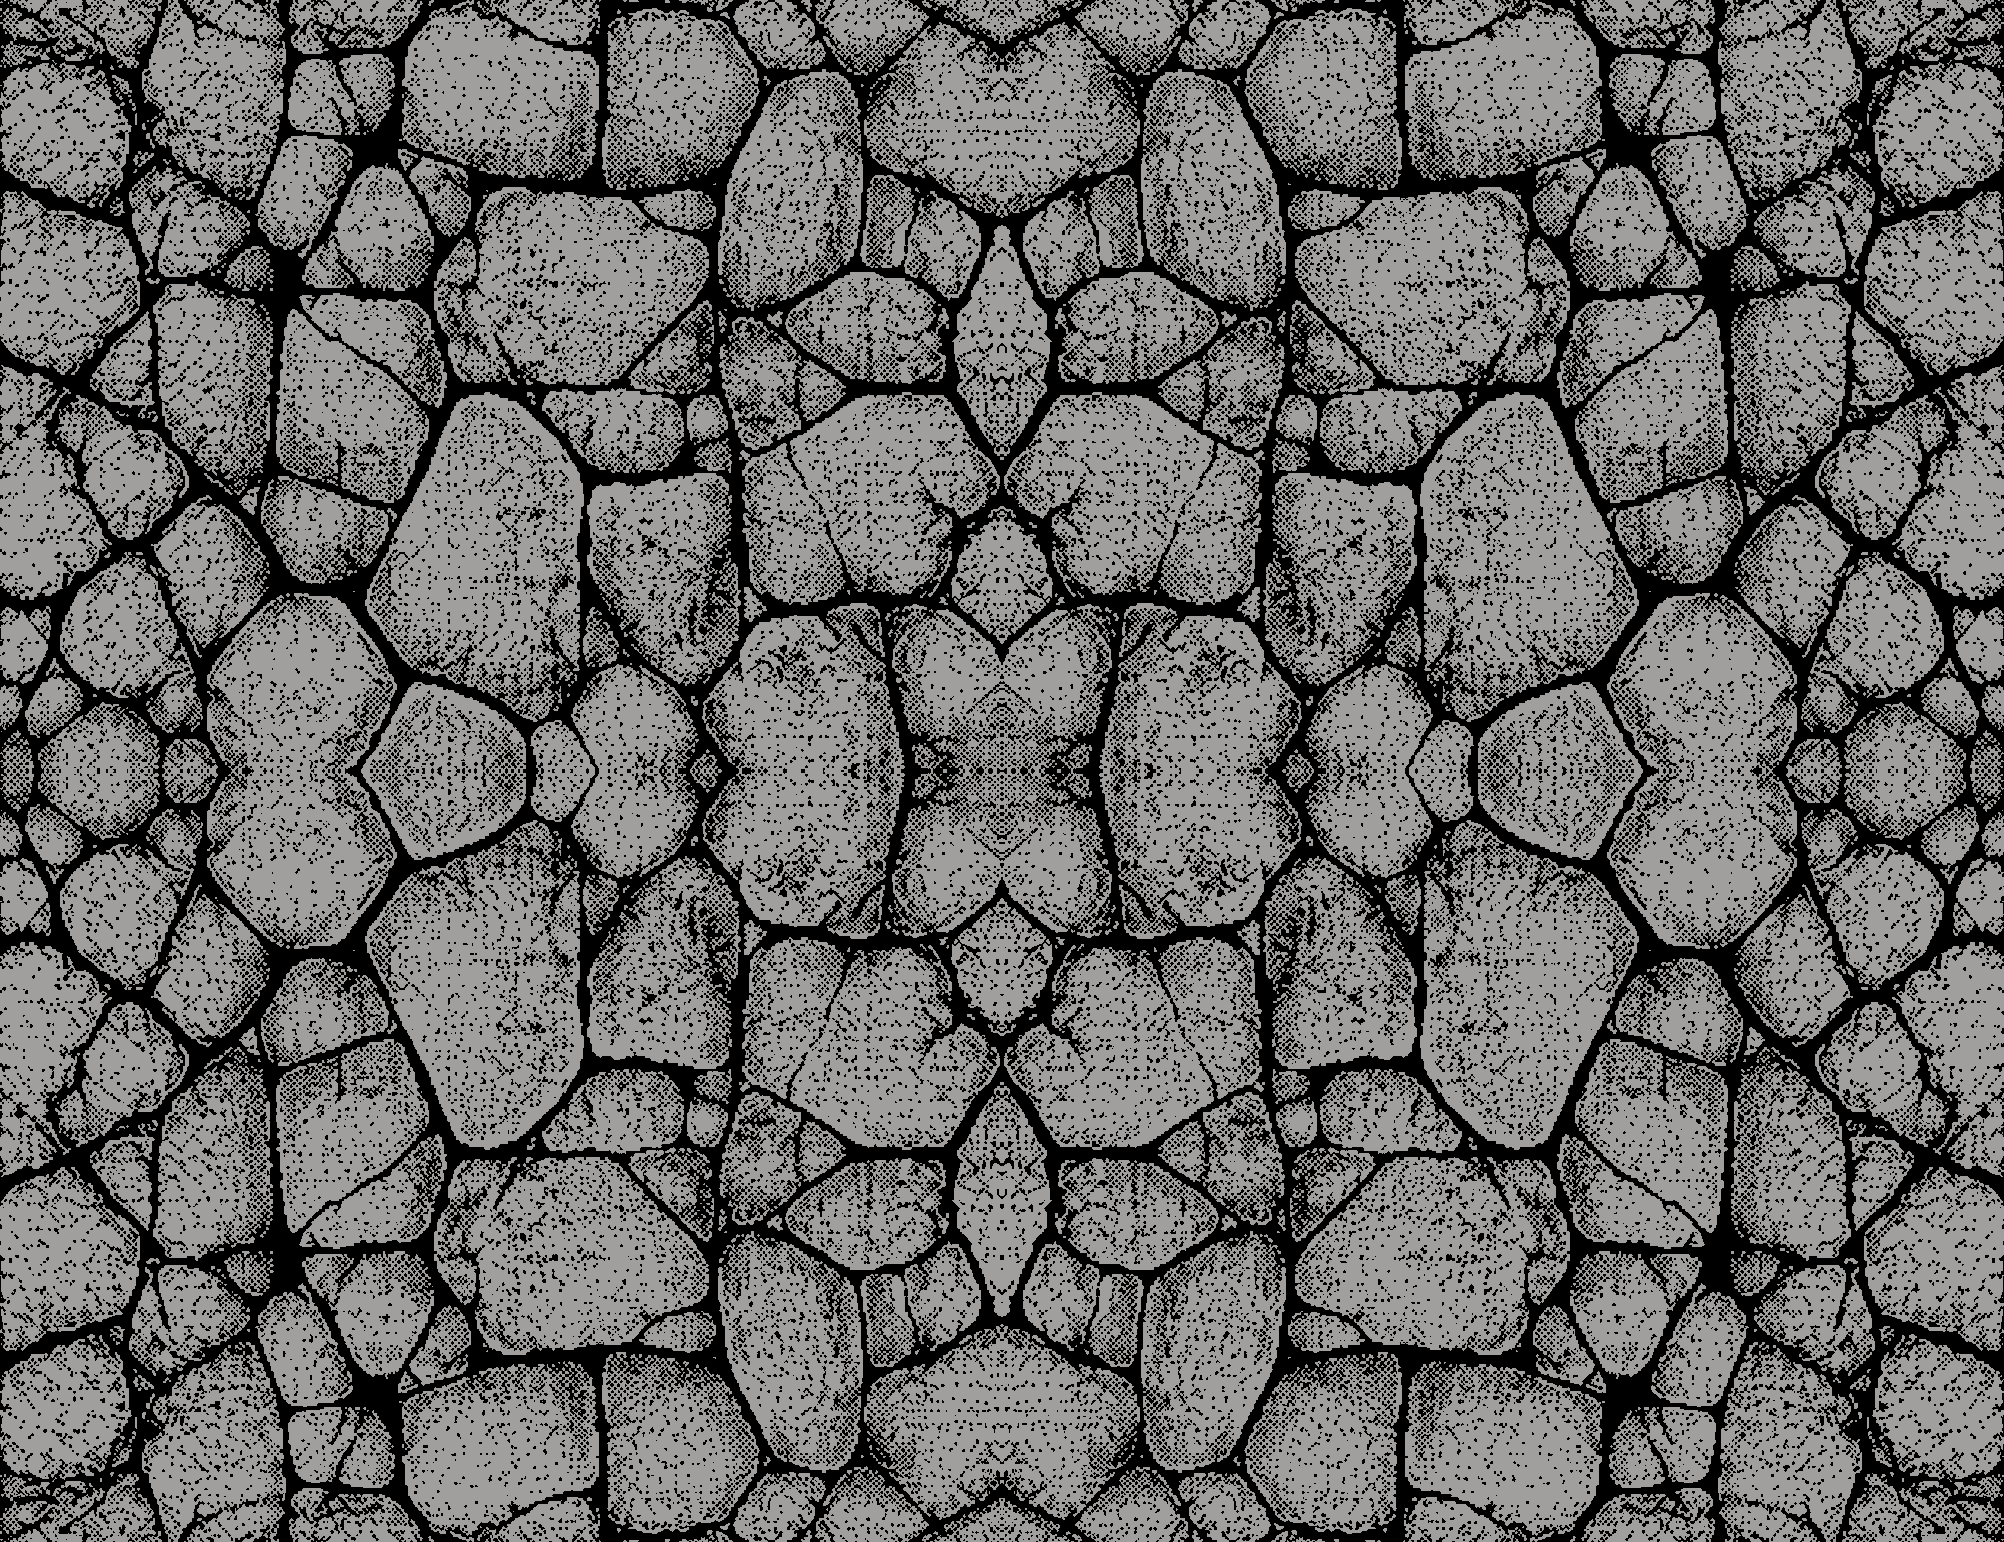
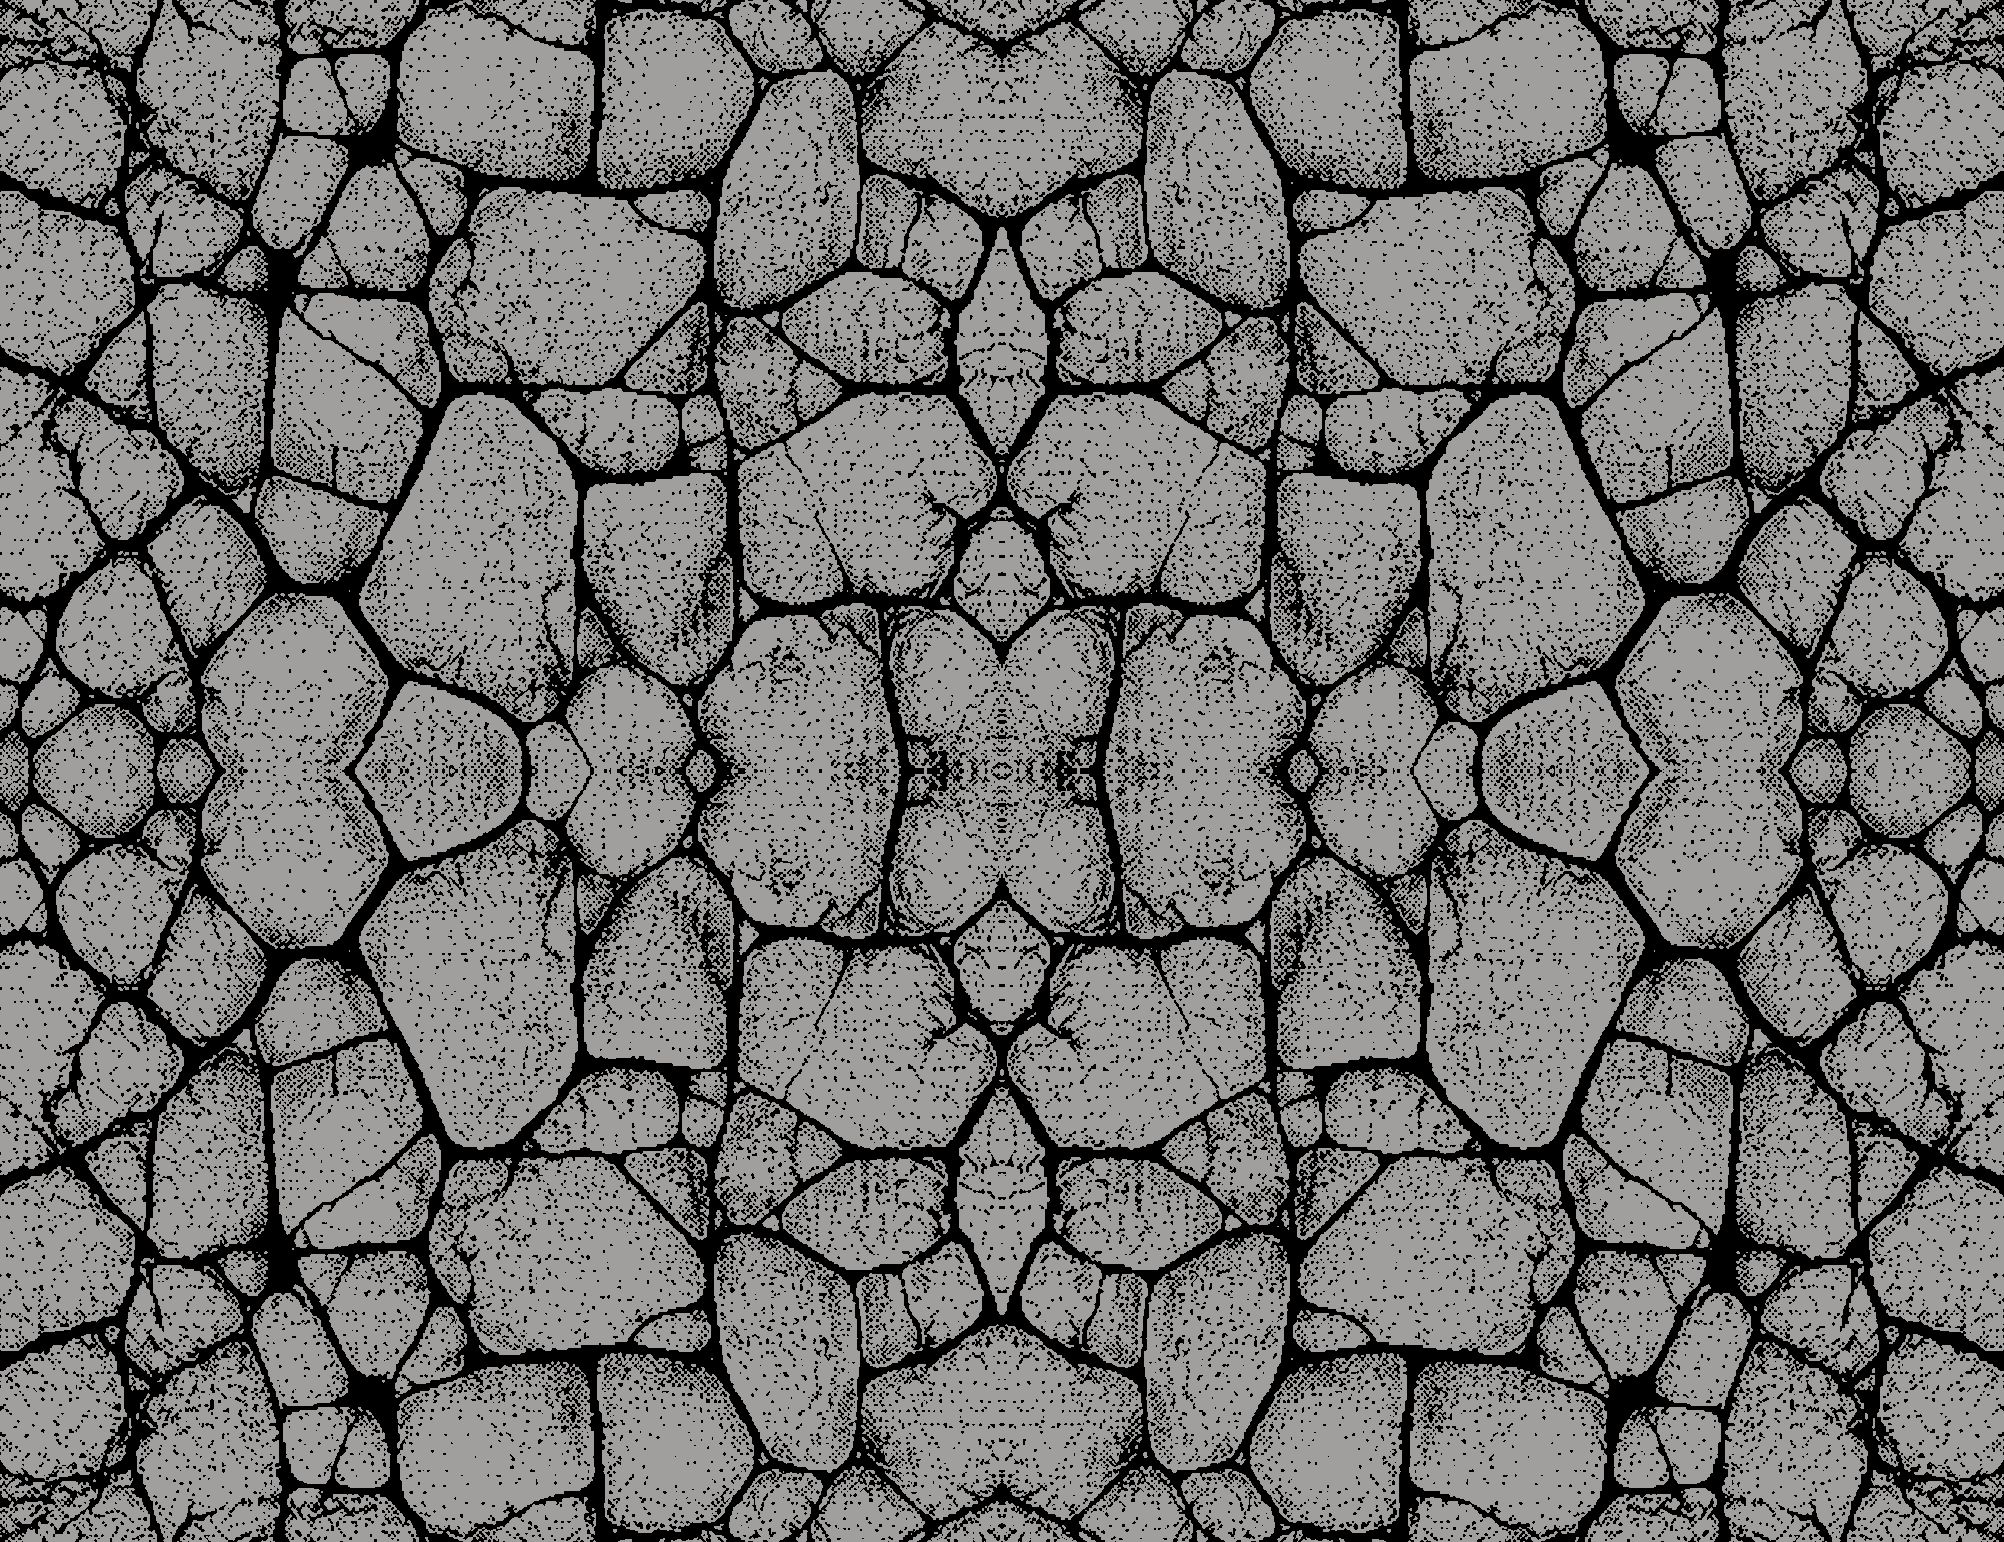
Replace Glemt's wall with design's rebuilt file, the same drawing as Focal's in grey (191 KB, checksum 84d941d2); a guard that the two walls have the same size and stone mask

Changed region(s): [[0.0, 0.0, 1.0, 1.0]]

diff --git a/web/src/styles/theme/exzedArt.guard.test.ts b/web/src/styles/theme/exzedArt.guard.test.ts
@@ -4,6 +4,7 @@ import { join } from 'node:path'
 import { describe, expect, it } from 'vitest'
 import { EXZED_SKINS } from '../../lib/preferences/exzedSkins.js'
 import { CATEGORY_BANNERS } from '../../components/quantum/art/categoryBanners.js'
+import { decodePng } from '../../../e2e/pngPixels.js'
 import { read } from './cssGuard.js'
 
 /**
@@ -24,7 +25,8 @@ const CHECKSUMS: Record<string, string> = {
[4 lines of base64/hex data omitted]
+  // Rebuilt by design on 2026-11-12 (design system `1794491700-cd51`) from the blue wall's stone mask, so Glemt's is Focal's drawing: it was 28c72433…83d7 (its shape differed, about 4 to 5px shifted).
[4 lines of base64/hex data omitted]
@@ -97,6 +99,18 @@ describe('the skin art', () => {
       expect(existsSync(file), `${name} exists`).toBe(true)
       expect(createHash('sha256').update(readFileSync(file)).digest('hex'), `${name} is the design system’s file`).toBe(CHECKSUMS[name])
     }
+  })
+
+  it('Glemt’s wall is the same drawing as Focal’s, in another colour: the same size, and every pixel stone in one is stone in the other (design, 2026-11-12)', () => {
+    const blue = decodePng(readFileSync(join(ART, 'blue-stones-wall.png')))
+    const grey = decodePng(readFileSync(join(ART, 'grey-stones-wall.png')))
+    const stone = (picture: typeof blue, at: number) => picture.data[at * 4]! + picture.data[at * 4 + 1]! + picture.data[at * 4 + 2]! > 0
+
+    expect([grey.width, grey.height]).toEqual([blue.width, blue.height])
+    let different = 0
+    for (let at = 0; at < blue.width * blue.height; at++) if (stone(blue, at) !== stone(grey, at)) different++
+
+    expect(different, 'pixels that are stone in one wall and black in the other').toBe(0)
   })
 
   it('every committed picture is used by a rule: no orphan', () => {
